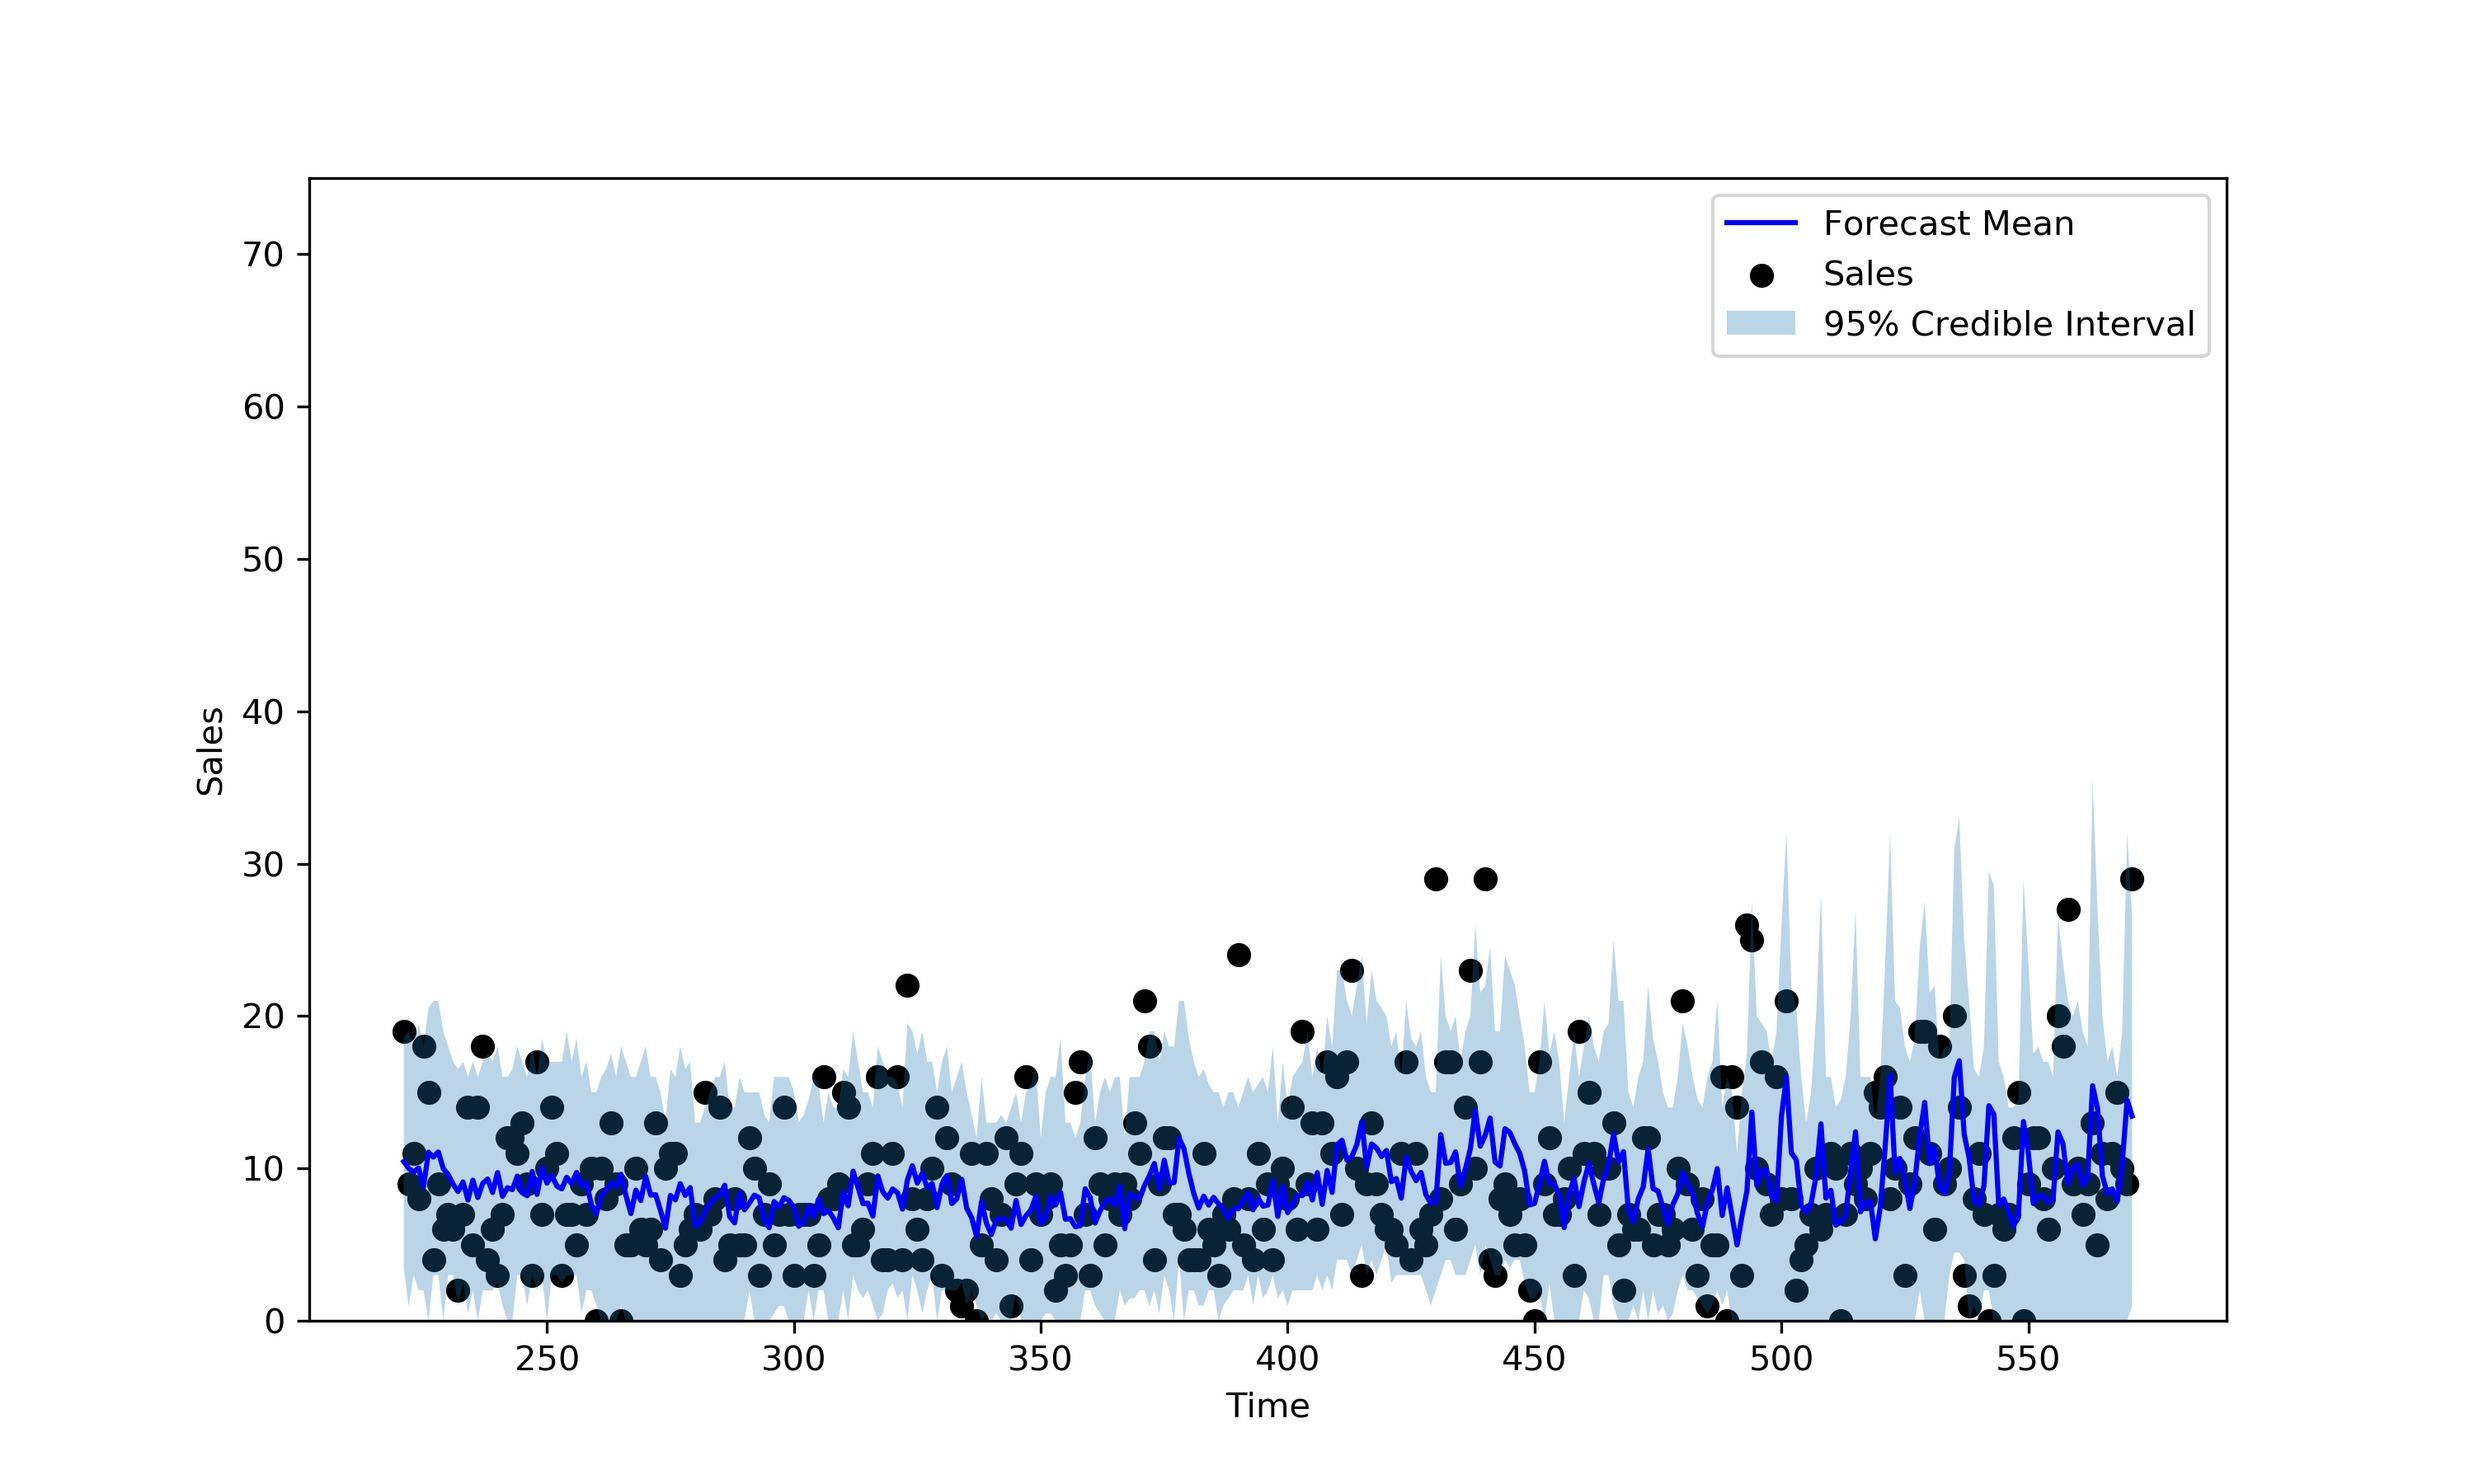
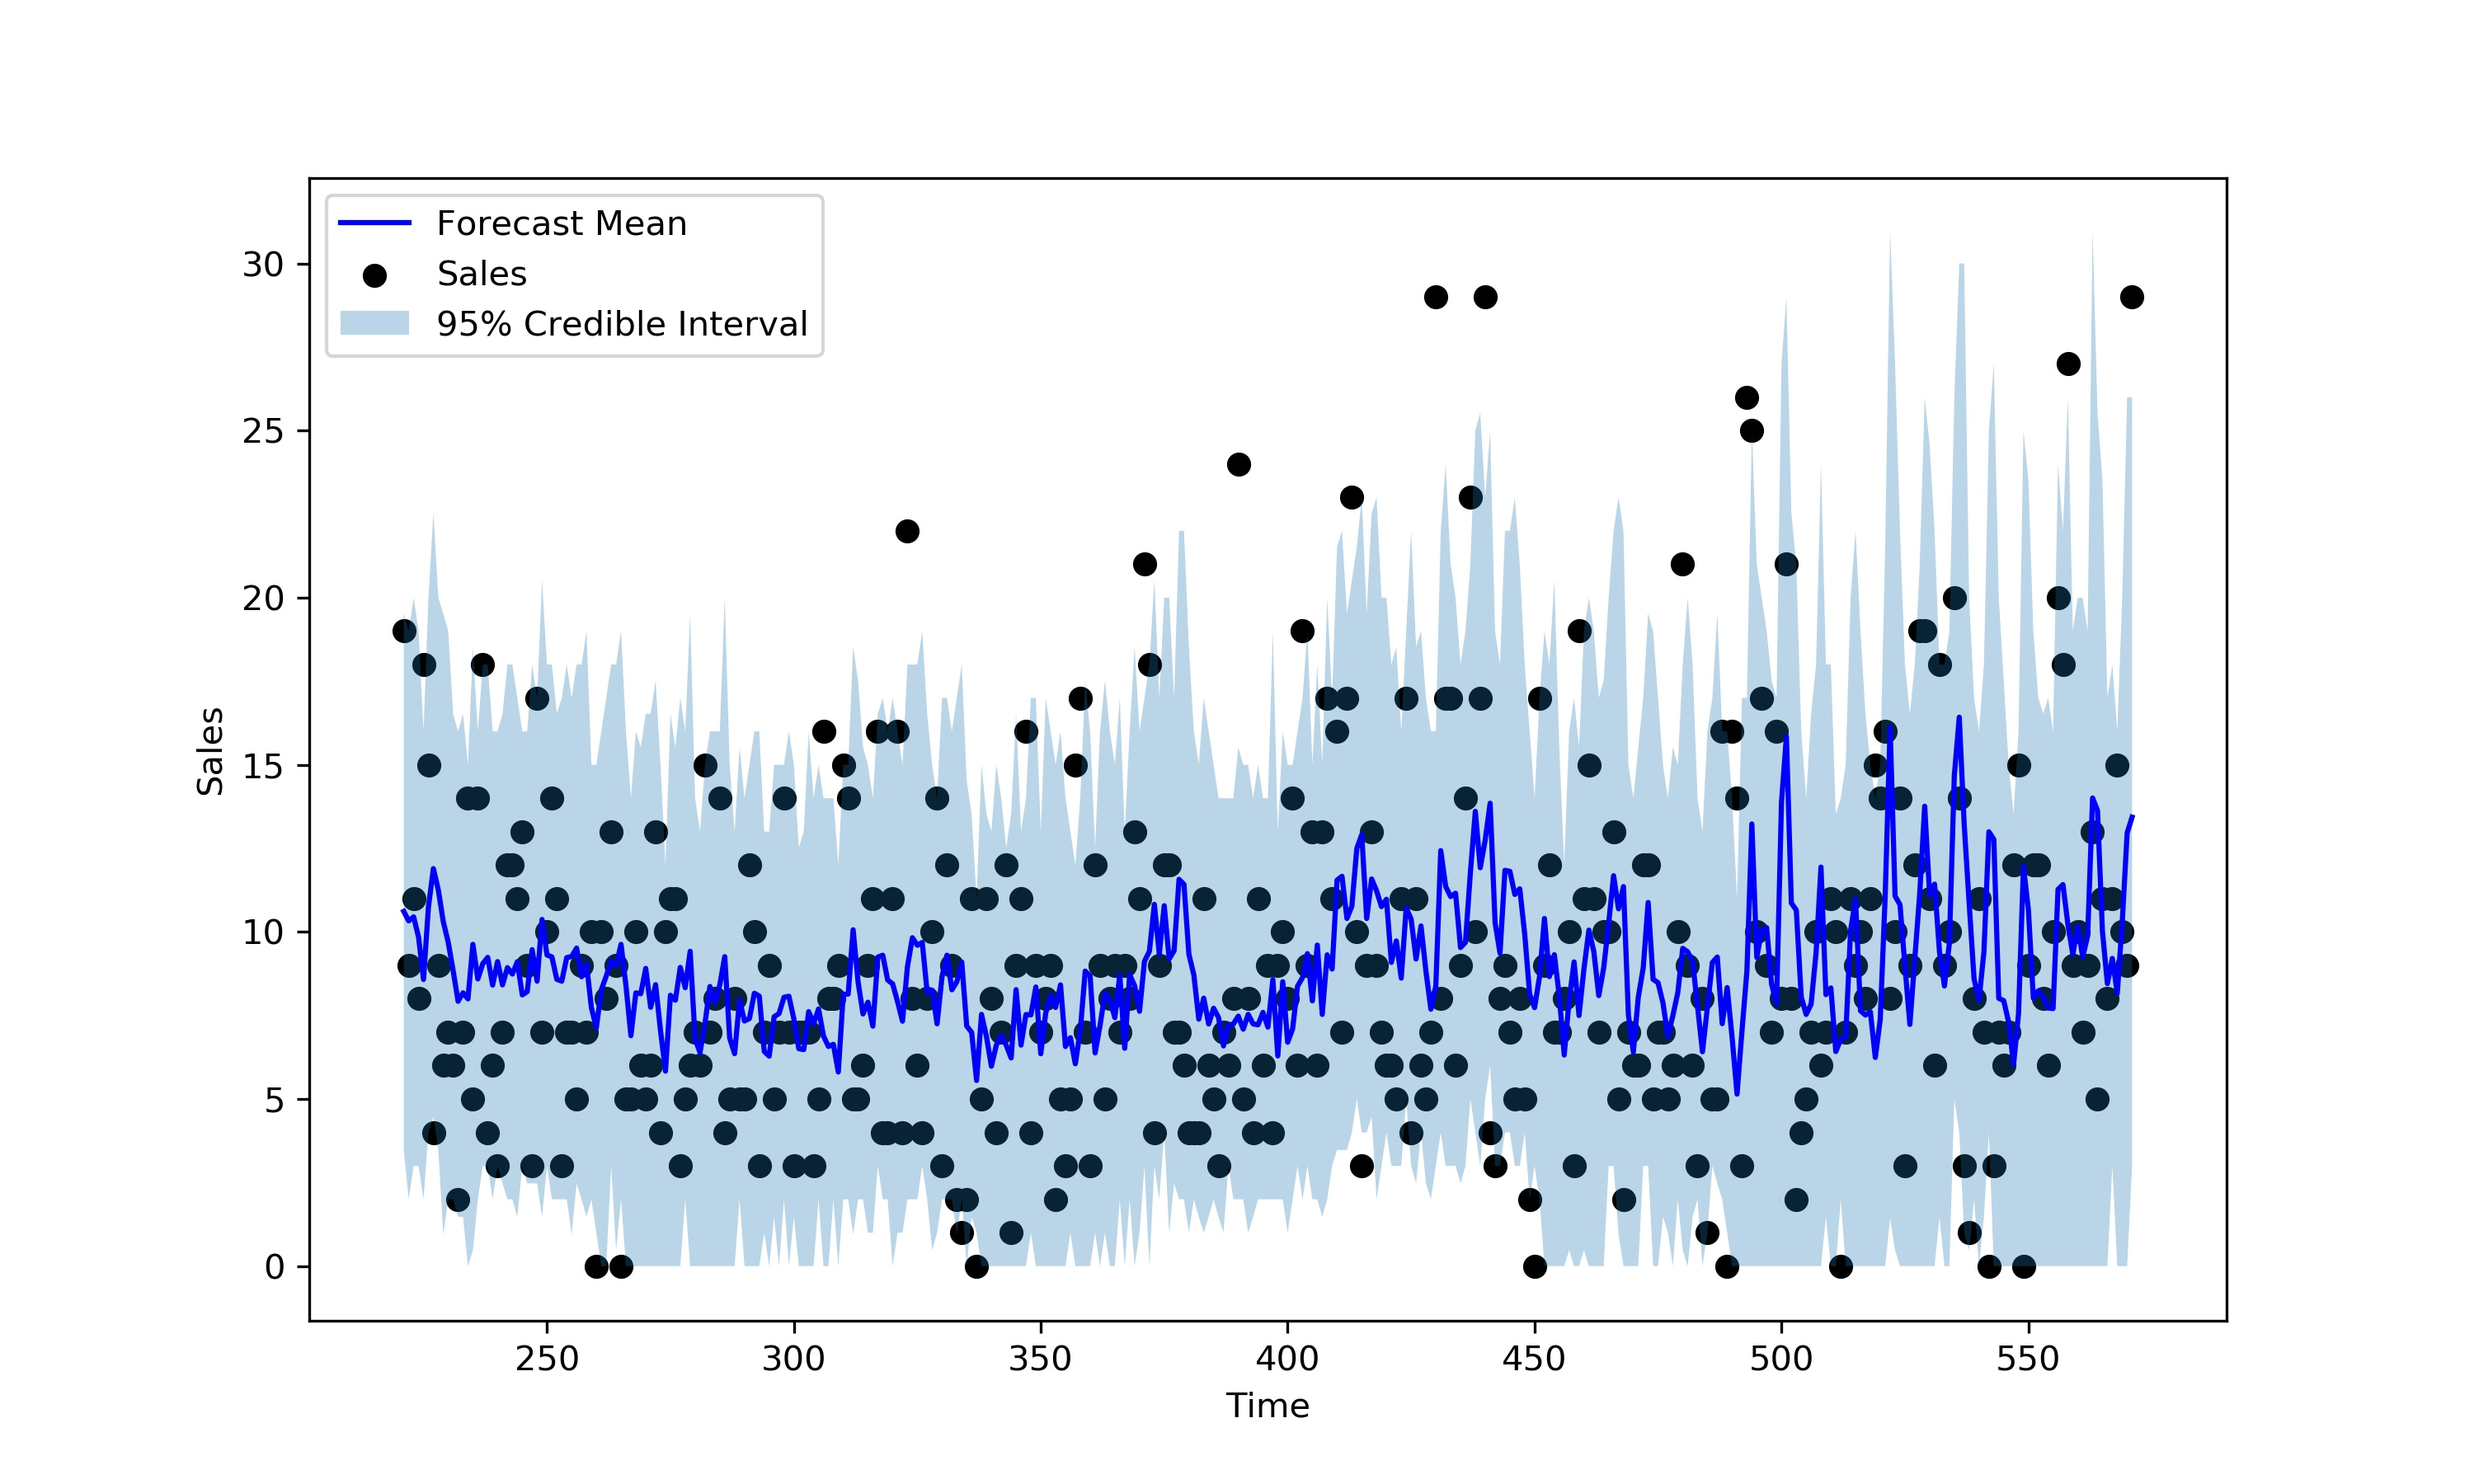
updated examples with analysis functions

diff --git a/examples/dcmm_multiscale_example.py b/examples/dcmm_multiscale_example.py
@@ -3,75 +3,39 @@ sys.path.insert(0,'../')
 import numpy as np
 import pandas as pd
 import matplotlib.pyplot as plt
-from forecasting.define_models import define_dcmm, define_normal_dlm
-from forecasting.multiscale import get_latent_factor, forecast_latent_factor, sample_latent_factor
-
+from forecasting.analysis import analysis_lognormal_seasonalms, analysis_dcmm
 
 ## Load in data:
 ### Y_totalsales = total sales of a type of item (proxy for overall store traffic)
 ### Y = sales of a single item
 data = np.load("../data/dcmm_multiscale_data.npz")
 Y = data['Y'].T
-X = data['X']
+X = data['X'].reshape(-1,1)
 Y_total = np.log(data['Y_totalsales'])
 X_total = data['X_totalsales']
 T = len(Y)
 prior_length = 21
 
-## Define normal DLM for the log of total sales
-## Include a day-of-week seasonal factor - This coefficient will be the multiscale factor we care about
-totalsales_mod = define_normal_dlm(Y_total, prior_length)
-period = totalsales_mod.seasPeriods[0]
 
-
-## Define multiscale DCMM
+#Initialize parameters
+period = 7 # Period of the seasonal component that is coming from the log-normal
 rho = .5
-dcmm_multiscale = define_dcmm(Y, X, prior_length = prior_length, multiscale = True, rho = rho, delpois=.99, delbern=.99)
-
-#Initialize parameters and storage variables
 k = 14 # Number of days ahead that we will forecast
 horizons = np.arange(1,k+1)
 forecast_start = prior_length + 200
 forecast_end = T - k
 nsamps = 500
-forecast_samps = np.zeros([nsamps, forecast_end - forecast_start, k])
 
-# Now update and forecast
-for t in range(prior_length, T):
-    # Get the day-of-week
-    today = t % period
+# Get multiscale signal from higher level log-normal model
+phi_mu_prior, phi_sigma_prior, phi_mu_post, phi_sigma_post = analysis_lognormal_seasonalms(
+    Y_total, X_total, prior_length, k, forecast_start, forecast_end, period)
 
-    if t % 100 == 0:
-        print(t)
 
-    if t >= forecast_start and t < forecast_end:
+# Update and forecast the model
+forecast_samples = analysis_dcmm(Y, X, prior_length,
+                               k, forecast_start, forecast_end, nsamps, rho,
+                               phi_mu_prior, phi_sigma_prior, None, phi_mu_post, phi_sigma_post, mean_only=False)
 
-        # Forecast the mean and variance of the latent factor 1:k steps ahead
-        future_latent_factors = list(map(lambda k: forecast_latent_factor(totalsales_mod, k=k, today=today, period=period),
-                                         horizons))
-
-        # Get the forecast 1:14-steps ahead with the multiscale DCMM
-        forecast_samps[:, t - forecast_start, :] = np.array(list(map(lambda k, x, lf:
-                                                                     dcmm_multiscale.multiscale_forecast_marginal_approx(
-                                                                       k,
-                                                                       X = (x, x),
-                                                                       phi_mu=(lf[0], lf[0]),
-                                                                       phi_sigma = (lf[1], lf[1]),
-                                                                       nsamps = nsamps),
-                                                                     horizons,
-                                                                     X[t + horizons - 1],
-                                                                     future_latent_factors))).T
-
-    # Now observe the true y value, and update:
-
-    # Update the normal DLM for total sales
-    totalsales_mod.update(Y_total[t], X_total[t])
-
-    # Get posterior mean and variance of the latent factors
-    phi_mu, phi_sigma = get_latent_factor(totalsales_mod, day=today)
-    # Update a multiscale DCMM of a single item's sales
-    dcmm_multiscale.multiscale_update_approx(y=Y[t], X=(X[t], X[t]),
-                                             phi_mu=(phi_mu, phi_mu), phi_sigma=(phi_sigma, phi_sigma))
 
 ## Plot forecasts against true sales, along with 95% credible intervals
 def plot_sales_forecast(forecast_samps, sales, time, filename):
@@ -88,6 +52,6 @@ def plot_sales_forecast(forecast_samps, sales, time, filename):
     plt.savefig(filename+'.jpg', dpi=300)
 
 
-filename = "dcmm_multiscale_forecast2"
+filename = "./Examples/dcmm_multiscale_forecast"
 time = np.arange(forecast_start, forecast_end)
-plot_sales_forecast(forecast_samps[:,:,0], Y[forecast_start:forecast_end], time, filename)
+plot_sales_forecast(forecast_samples[:,:,0], Y[forecast_start:forecast_end], time, filename)

diff --git a/examples/dbcm_multiscale_example.py b/examples/dbcm_multiscale_example.py
@@ -2,9 +2,8 @@ import sys
 sys.path.insert(0,'../')
 import numpy as np
 import pandas as pd
-from forecasting.define_models import define_dbcm, define_normal_dlm
-from forecasting.multiscale import get_latent_factor, forecast_latent_factor, sample_latent_factor
-from forecasting.update import update_normaldlm
+from forecasting.define_models import define_normal_dlm
+from forecasting.analysis import analysis_lognormal_seasonalms, analysis_dbcm
 import matplotlib.pyplot as plt
 
 ## Load in data:
@@ -25,64 +24,26 @@ sales = data['sales']
 T = len(Y_transaction)
 prior_length = 21
 
-
-## Define normal DLM for the log of total sales
-## Include a day-of-week seasonal factor - This coefficient will be the multiscale factor we care about
-totalsales_mod = define_normal_dlm(Y_total, prior_length)
-period = totalsales_mod.seasPeriods[0]
-
-## Define multiscale DBCM
-rho = 1
-dbcm_multiscale = define_dbcm(Y_transaction, X_transaction, Y_cascade, X_cascade, excess_values = excess, multiscale=True,
-                              rho = rho, deltrend=.99, delregn = .99, delmultiscale=.99, delseas=.99, prior_length= prior_length)
-
-
+# Set parameters
+period = 7 # Period of the seasonal component that is coming from the log-normal
 k = 14 # Number of days ahead that we will forecast
-horizons = np.arange(1,k+1)
+rho = 1 # Random effect discount factor to increase variance of forecast distribution
+
+# Define period to forecast over
 forecast_start = prior_length + 150
 forecast_end = T - k
 nsamps = 500
-forecast_samps = np.zeros([nsamps, forecast_end - forecast_start, k])
 
-# Now update and forecast
-for t in range(prior_length, T):
-    # Get the day-of-week
-    today = t % period
+# Get multiscale signal from higher level log-normal model
+period = 7 # Include a day-of-week seasonal factor - This coefficient will be the multiscale factor we care about
+phi_mu_prior, phi_sigma_prior, phi_mu_post, phi_sigma_post = analysis_lognormal_seasonalms(
+    Y_total, X_total, prior_length, k, forecast_start, forecast_end, period)
 
-    if t % 100 == 0:
-        print(t)
-
-    if t >= forecast_start and t < forecast_end:
-
-        # Forecast the mean and variance of the latent factor 1:k steps ahead
-        future_latent_factors = list(map(lambda k: forecast_latent_factor(totalsales_mod, k=k, today=today, period=period),
-                                         horizons))
-        phi_mu = [lf[0] for lf in future_latent_factors]
-        phi_sigma = [lf[1] for lf in future_latent_factors]
-
-        # Get the forecast 1:14-steps ahead with the multiscale DCMM
-        forecast_samps[:, t - forecast_start, :] = dbcm_multiscale.multiscale_forecast_path_approx(
-            k,
-            X_transaction[t + horizons - 1],
-            X_cascade[t + horizons - 1],
-            phi_mu = phi_mu,
-            phi_sigma = phi_sigma,
-            nsamps = nsamps
-                                                                                                   )
-
-    # Now observe the true y value, and update:
-
-    # Update the normal DLM for total sales
-    totalsales_mod.update(Y_total[t], X_total[t])
-
-    # Get posterior mean and variance of the latent factors
-    phi_mu, phi_sigma = get_latent_factor(totalsales_mod, day=today)
-    # Update a multiscale DCMM of a single item's sales
-    dbcm_multiscale.multiscale_update_approx(Y_transaction[t], X_transaction[t],
-                                             Y_cascade[t,:], X_cascade[t],
-                                             phi_mu=phi_mu, phi_sigma=phi_sigma,
-                                             excess = excess[t])
-
+# Update and forecast the model
+forecast_samples = analysis_dbcm(Y_transaction, X_transaction, Y_cascade, X_cascade, excess, prior_length,
+                               k, forecast_start, forecast_end, nsamps, rho,
+                               phi_mu_prior, phi_sigma_prior, None, phi_mu_post, phi_sigma_post,
+                               period=period, mean_only=False, delregn=.98)
 
 ## Plot forecasts against true sales, along with 95% credible intervals
 def plot_sales_forecast(forecast_samps, sales, time, filename):
@@ -101,4 +62,4 @@ def plot_sales_forecast(forecast_samps, sales, time, filename):
 
 filename = "dbcm_multiscale_forecast"
 time = np.arange(forecast_start, forecast_end)
-plot_sales_forecast(forecast_samps[:,:,0], sales[forecast_start:forecast_end], time, filename)
+plot_sales_forecast(forecast_samples[:,:,0], sales[forecast_start:forecast_end], time, filename)
